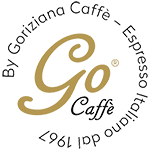
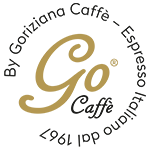
Remove inline style from Go Caffe image container
Eliminated the background color and text alignment inline style from the Go Caffe image container in index.html for a cleaner layout. Updated the go_caffe.png image as well.

diff --git a/html/index.html b/html/index.html
@@ -159,7 +159,7 @@
 						<div class="col-3"><img src="images/cerealitalia.png" alt=""></div>
 						<div class="col-3"><img src="images/hosta.png" alt=""></div>
 						<div class="col-3"><img src="images/trento.png" alt=""></div>
-						<div class="col-3" style="background: #b4a099; text-align: center;"><img src="images/go_caffe.png" alt=""></div>
+						<div class="col-3"><img src="images/go_caffe.png" alt=""></div>
 
 						<div class="col-3"><h6 class="fs-16">ITALY</h6></div>
 						<div class="col-3"><h6 class="fs-16">GERMANY &amp; ITALY</h6></div>
